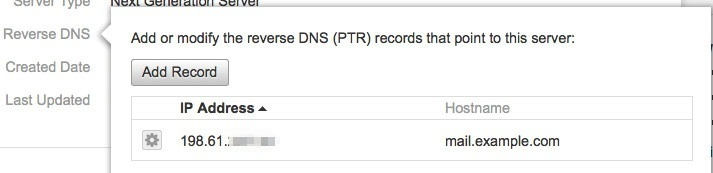
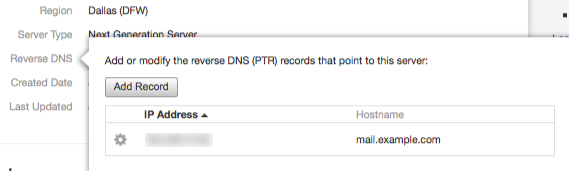
replace obsolete images demonstrating reverse DNS

diff --git a/cloud-config/network/cloud-networks-product-concepts/DNS.rst b/cloud-config/network/cloud-networks-product-concepts/DNS.rst
@@ -92,9 +92,13 @@ Panel by performing these steps:
    DNS** option.
 
 .. figure:: /_images/CloudDNSAddReverse.png
-   :alt: Servers > Server Details > Add Record
+   :alt: While displaying details for a server,
+         click Add Record to begin defining a 
+         reverse DNS record.
    
-   **Servers > Server Details > Add Record**
+   *While displaying details for a server,
+   click Add Record to begin defining a 
+   reverse DNS record.*
 
 4. In the resulting window:
 
@@ -105,14 +109,25 @@ Panel by performing these steps:
 
 * Click **Save Record**.
 
-After you have done this, on the Server Details screen, you will see
-one record listed next to the Reverse DNS option. Clicking this link
-displays the details for the reverse DNS you just added.
+After you have done this, look again at the Server Details screen.
+If you previously had no DNS records associated with this server, 
+to the left of the **Add Record** link you had an inactive 
+**0 Records** link.
+Now that you have added a reverse DNS record, 
+that location contains an active **1 Record** link. 
+Clicking this link
+displays the details for the reverse DNS you just added, 
+confirming the association of the domain name and 
+the server's IP address.
 
 .. figure:: /_images/CloudDNSAddReverseDetails.png
-   :alt: Servers > Server Details > Add Record
+   :alt: After adding a reverse DNS record to a server,
+         click 1 Record to confirm the association between 
+         the domain name and the server's IP address.
    
-   **Servers > Server Details** 
+   *After adding a reverse DNS record to a server,
+   click 1 Record to confirm the association between 
+   the domain name and the server's IP address.*
 
 Troubleshooting your reverse DNS record
 ---------------------------------------

diff --git a/_images/README.md b/_images/README.md
@@ -202,15 +202,15 @@ To include any image in the guide:
 
 * **CloudDNSAddReverse.png** 
   * used at /cloud-config/network/cloud-networks-product-concepts/DNS.html
-  * collected from http://www.rackspace.com/knowledge-center/article/create-a-reverse-dns-record-0 
-  * collection date 2015-03-01 (KC article dated 2015-02-02)
-  * contributed by Rose Coste (KC article author listed as "Rackspace Support")
+  * collected from https://mycloud.rackspace.com/ 
+  * collection date 2015-06-16 
+  * contributed by Rose Coste 
   
 * **CloudDNSAddReverseDetails.png** 
   * used at /cloud-config/network/cloud-networks-product-concepts/DNS.html
-  * collected from http://www.rackspace.com/knowledge-center/article/create-a-reverse-dns-record-0 
-  * collection date 2015-03-01 (KC article dated 2015-02-02)
-  * contributed by Rose Coste (KC article author listed as "Rackspace Support")
+  * collected from https://mycloud.rackspace.com/ 
+  * collection date 2015-06-16
+  * contributed by Rose Coste 
   
 * **CloudDNSCreateDomain.png** 
   * used at /cloud-config/network/cloud-networks-product-concepts/DNS.html
